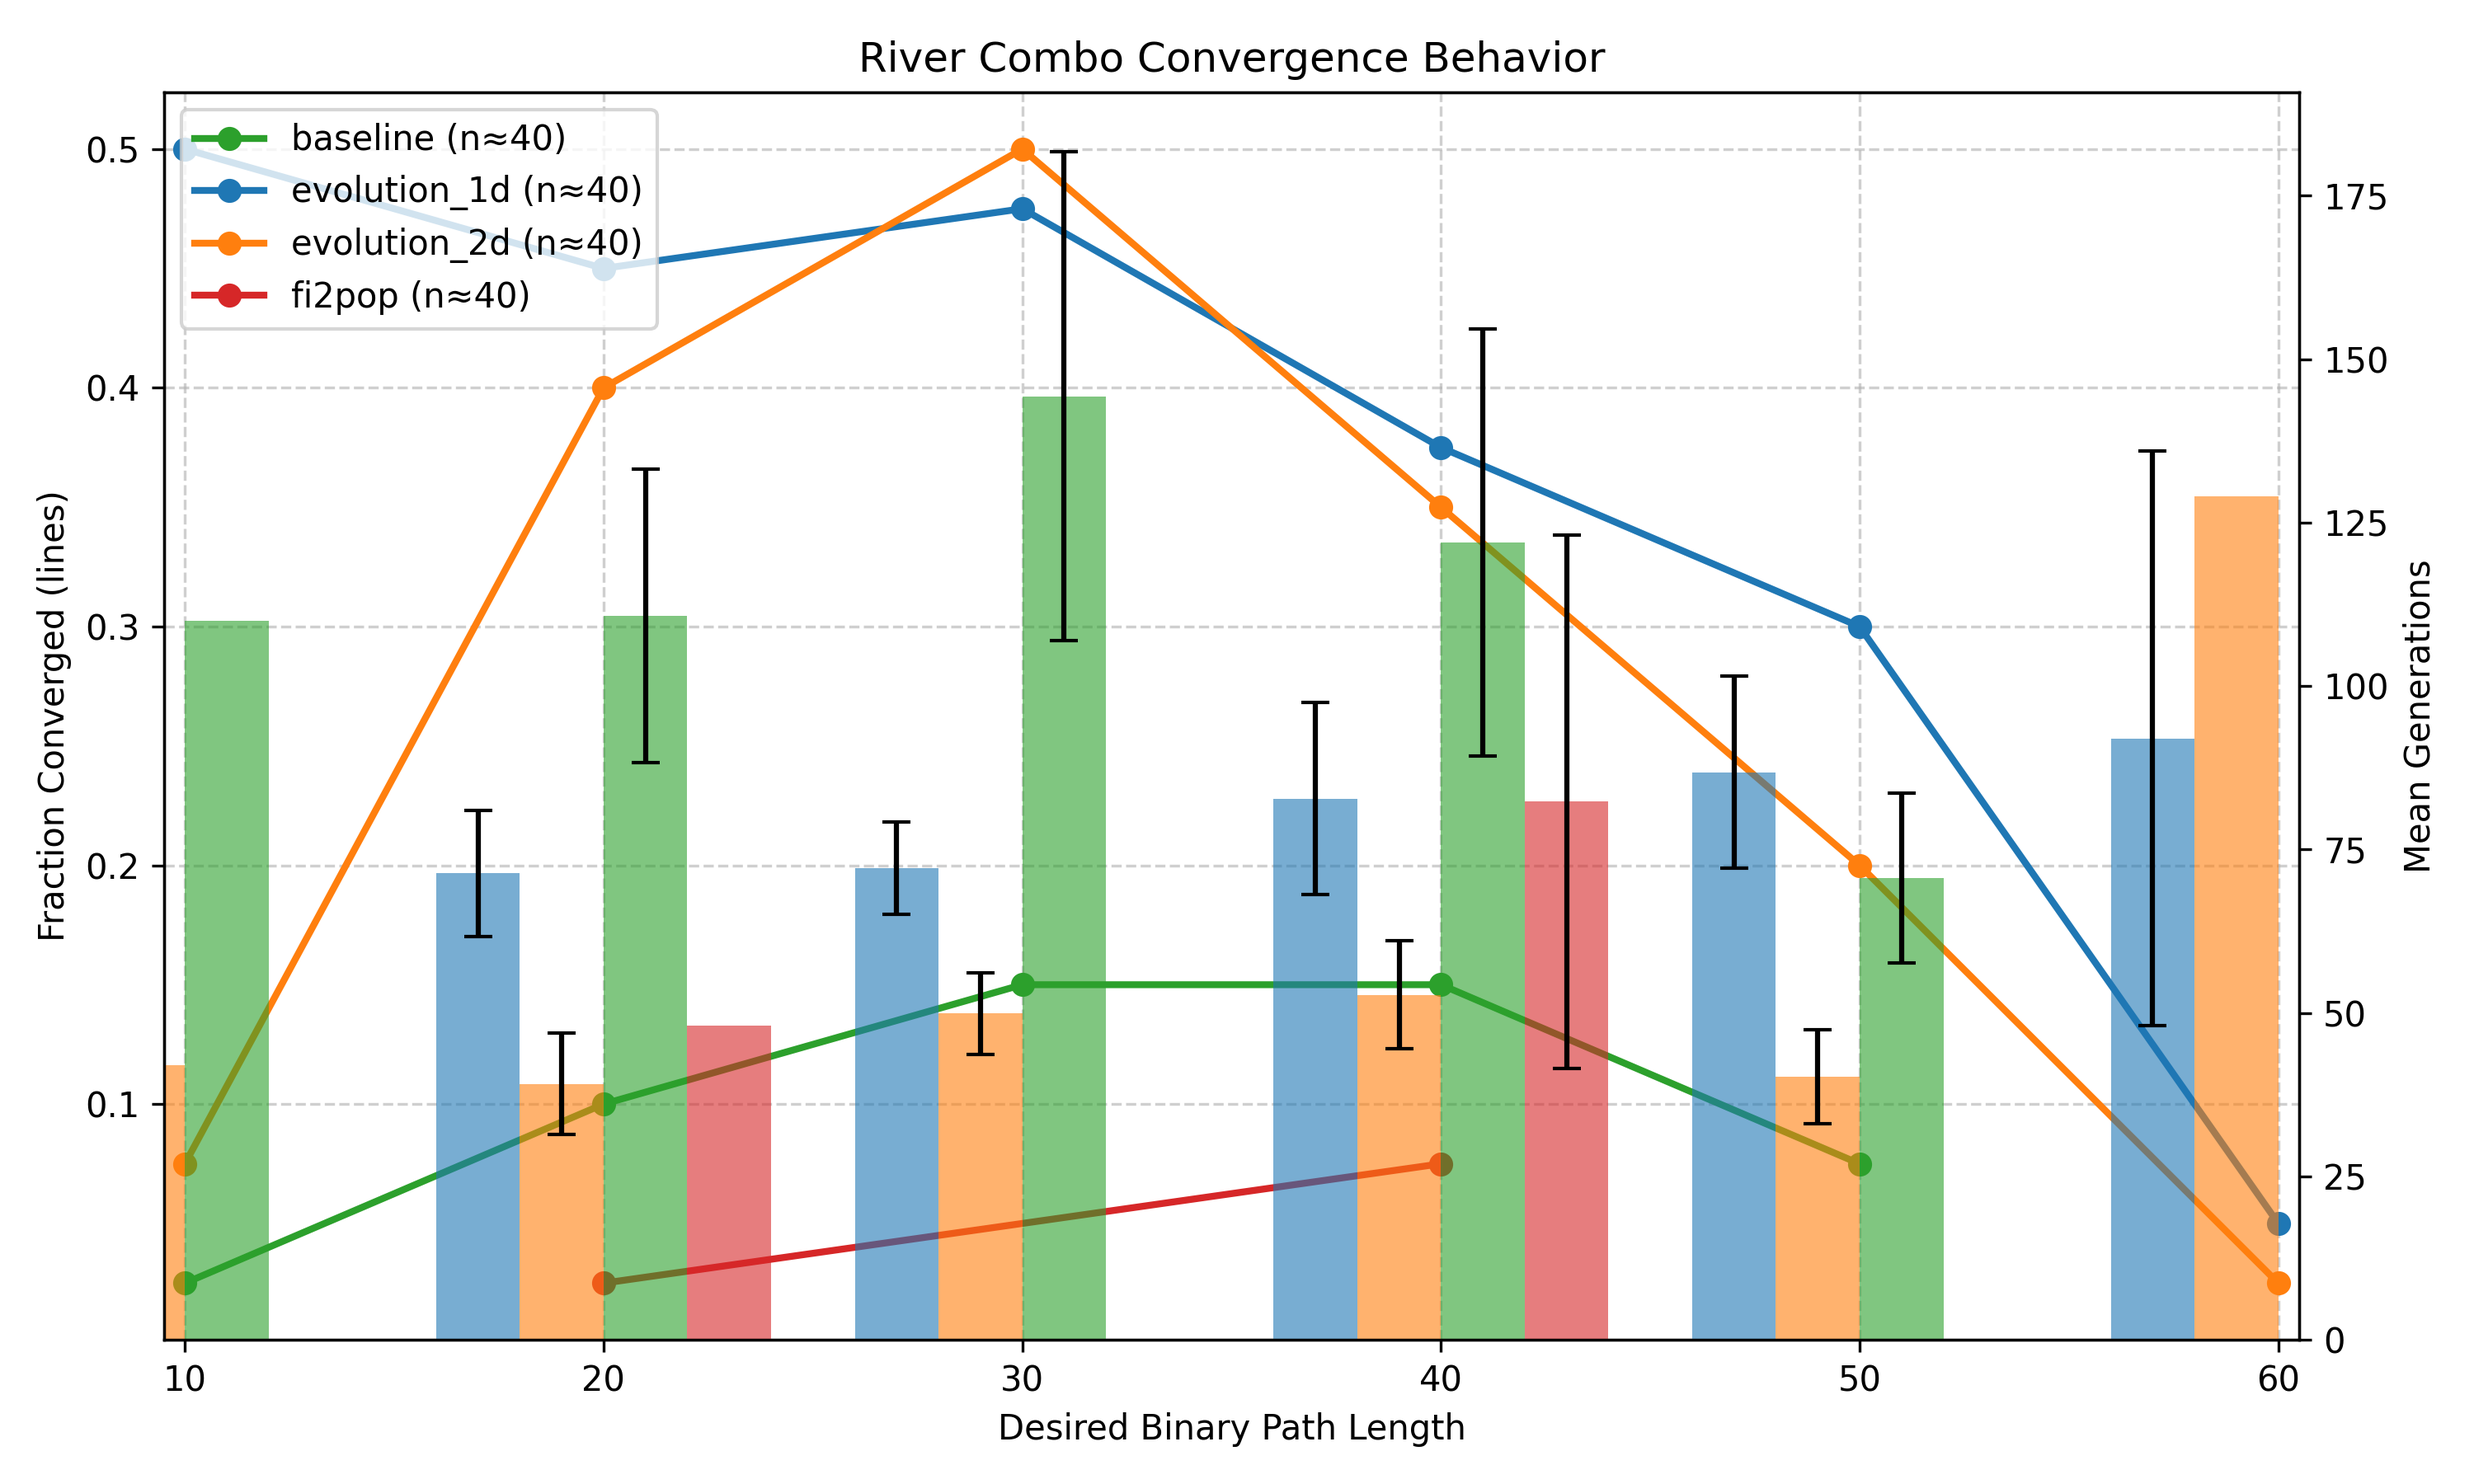
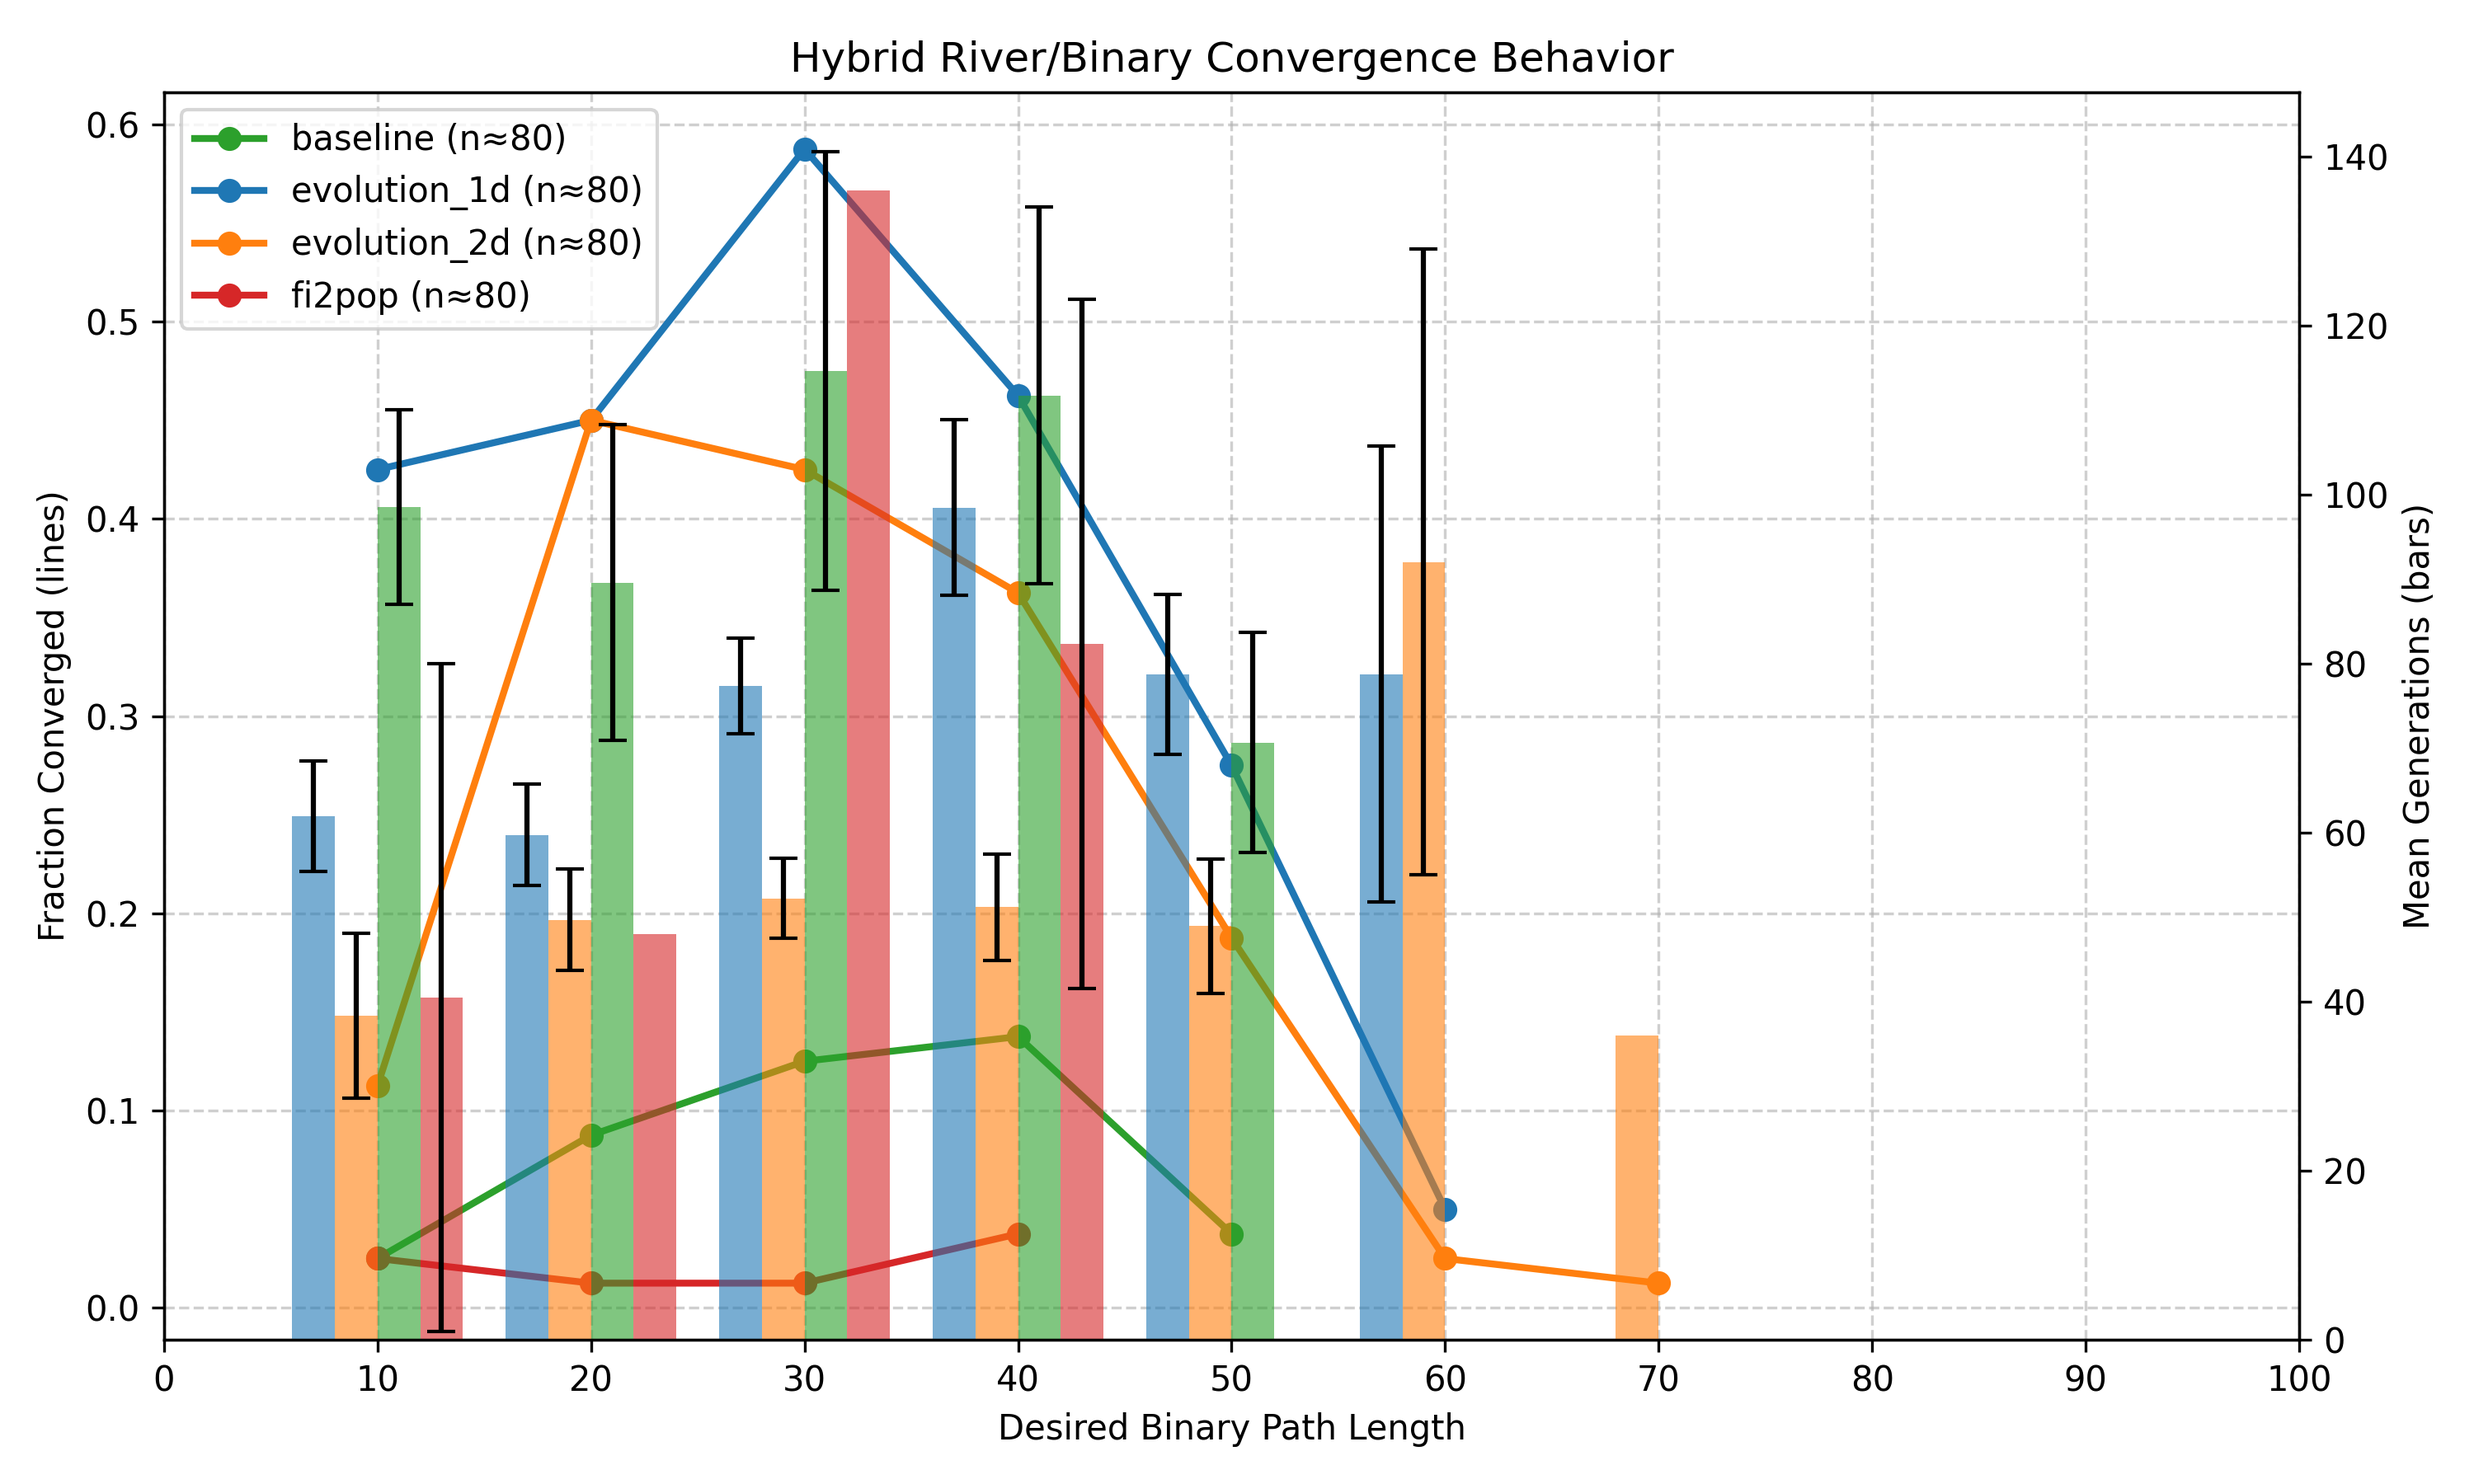
improved plot bars

diff --git a/plot.py b/plot.py
@@ -635,14 +635,12 @@ def plot_comparison(
     import matplotlib.pyplot as plt
 
     def detect_columns(df: pd.DataFrame) -> tuple[str, str]:
-        # X axis
         if "biome" in df.columns:
             xcol = "biome"
         elif "desired_path_length" in df.columns:
             xcol = "desired_path_length"
         else:
             raise KeyError("Expected 'biome' or 'desired_path_length' in CSV.")
-        # Metric
         if "generations_to_converge" in df.columns:
             metric = "generations_to_converge"
         elif "iterations_to_converge" in df.columns:
@@ -697,11 +695,11 @@ def plot_comparison(
     is_numeric_x = np.issubdtype(
         combined[global_xcol].dropna().infer_objects(copy=False).dtype, np.number
     )
+
     if is_numeric_x:
-        x_values = np.array(sorted(combined[global_xcol].unique()))
+        x_values = list(range(0, 101, 10))
         pos_map = {v: float(v) for v in x_values}
-        step = float(np.min(np.diff(np.sort(x_values)))) if len(x_values) > 1 else 1.0
-        total_bar_space = 0.8 * step
+        total_bar_space = 8.0
     else:
         x_values = list(pd.unique(combined[global_xcol]))
         pos_map = {v: i for i, v in enumerate(x_values)}
@@ -718,6 +716,7 @@ def plot_comparison(
 
     for method_name, group in combined.groupby("method"):
         color = method_colors[method_name]
+        group = group[group[global_xcol].isin(pos_map.keys())].copy()
         group = group.sort_values(global_xcol, key=lambda s: [pos_map[v] for v in s])
 
         # Fraction converged (lines)
@@ -751,15 +750,15 @@ def plot_comparison(
     else:
         left_axis.set_xlabel("Desired Binary Path Length")
 
-    right_label = "Mean Generations" if global_metric == "generations_to_converge" else "Mean Iterations"
+    right_label = "Mean Generations (bars)" if global_metric == "generations_to_converge" else "Mean Iterations"
     left_axis.set_ylabel("Fraction Converged (lines)")
     right_axis.set_ylabel(right_label)
 
-    # Ticks
+    # Ticks and bounds
     if is_numeric_x:
         left_axis.set_xticks([pos_map[v] for v in x_values])
         left_axis.set_xticklabels([str(v) for v in x_values])
-        left_axis.set_xlim(min(pos_map.values()) - 0.5, max(pos_map.values()) + 0.5)
+        left_axis.set_xlim(0, 100)
     else:
         left_axis.set_xticks(range(len(x_values)))
         left_axis.set_xticklabels(x_values)
@@ -776,7 +775,7 @@ def plot_comparison(
     print(f"Saved comparison plot to {output_path}")
 
     # ----- ASCII + LaTeX tables -----
-    ordered_keys = x_values if not is_numeric_x else sorted(x_values)
+    ordered_keys = x_values
     rows, index_tuples = [], []
     for method_name in labels:
         grp = (
@@ -785,18 +784,30 @@ def plot_comparison(
             .reindex(ordered_keys)
         )
 
-        mean_row = []
+        # Row 1: Mean (±stderr if available). If only one success (or stderr NaN), show just mean.
+        mean_row: list[str] = []
         for k in ordered_keys:
-            m = grp.at[k, "mean"] if k in grp.index else np.nan
-            s = grp.at[k, "stderr"] if k in grp.index else np.nan
-            mean_row.append("—" if (pd.isna(m) or pd.isna(s)) else f"{m:.1f}±{s:.1f}")
+            if k not in grp.index:
+                mean_row.append("—")
+                continue
+            mean_value = grp.at[k, "mean"] if k in grp.index else np.nan
+            stderr_value = grp.at[k, "stderr"] if k in grp.index else np.nan
+            successes_value = grp.at[k, "successes"] if (k in grp.index and "successes" in grp.columns) else np.nan
+
+            if pd.isna(mean_value):
+                mean_row.append("—")
+            elif pd.isna(stderr_value) or successes_value == 1:
+                mean_row.append(f"{mean_value:.1f}")            # <-- change: show mean only
+            else:
+                mean_row.append(f"{mean_value:.1f}±{stderr_value:.1f}")
         rows.append(mean_row)
         index_tuples.append((method_name, f"{right_label} (±stderr)"))
 
-        frac_row = []
+        # Row 2: Fraction Converged
+        frac_row: list[str] = []
         for k in ordered_keys:
-            f = grp.at[k, "fraction_converged"] if k in grp.index else np.nan
-            frac_row.append("—" if pd.isna(f) else f"{f:.2f}")
+            frac_value = grp.at[k, "fraction_converged"] if (k in grp.index) else np.nan
+            frac_row.append("—" if pd.isna(frac_value) else f"{frac_value:.2f}")
         rows.append(frac_row)
         index_tuples.append((method_name, "Fraction Converged"))
 
@@ -815,6 +826,7 @@ def plot_comparison(
             escape=False,
         )
     )
+
 
 
     
